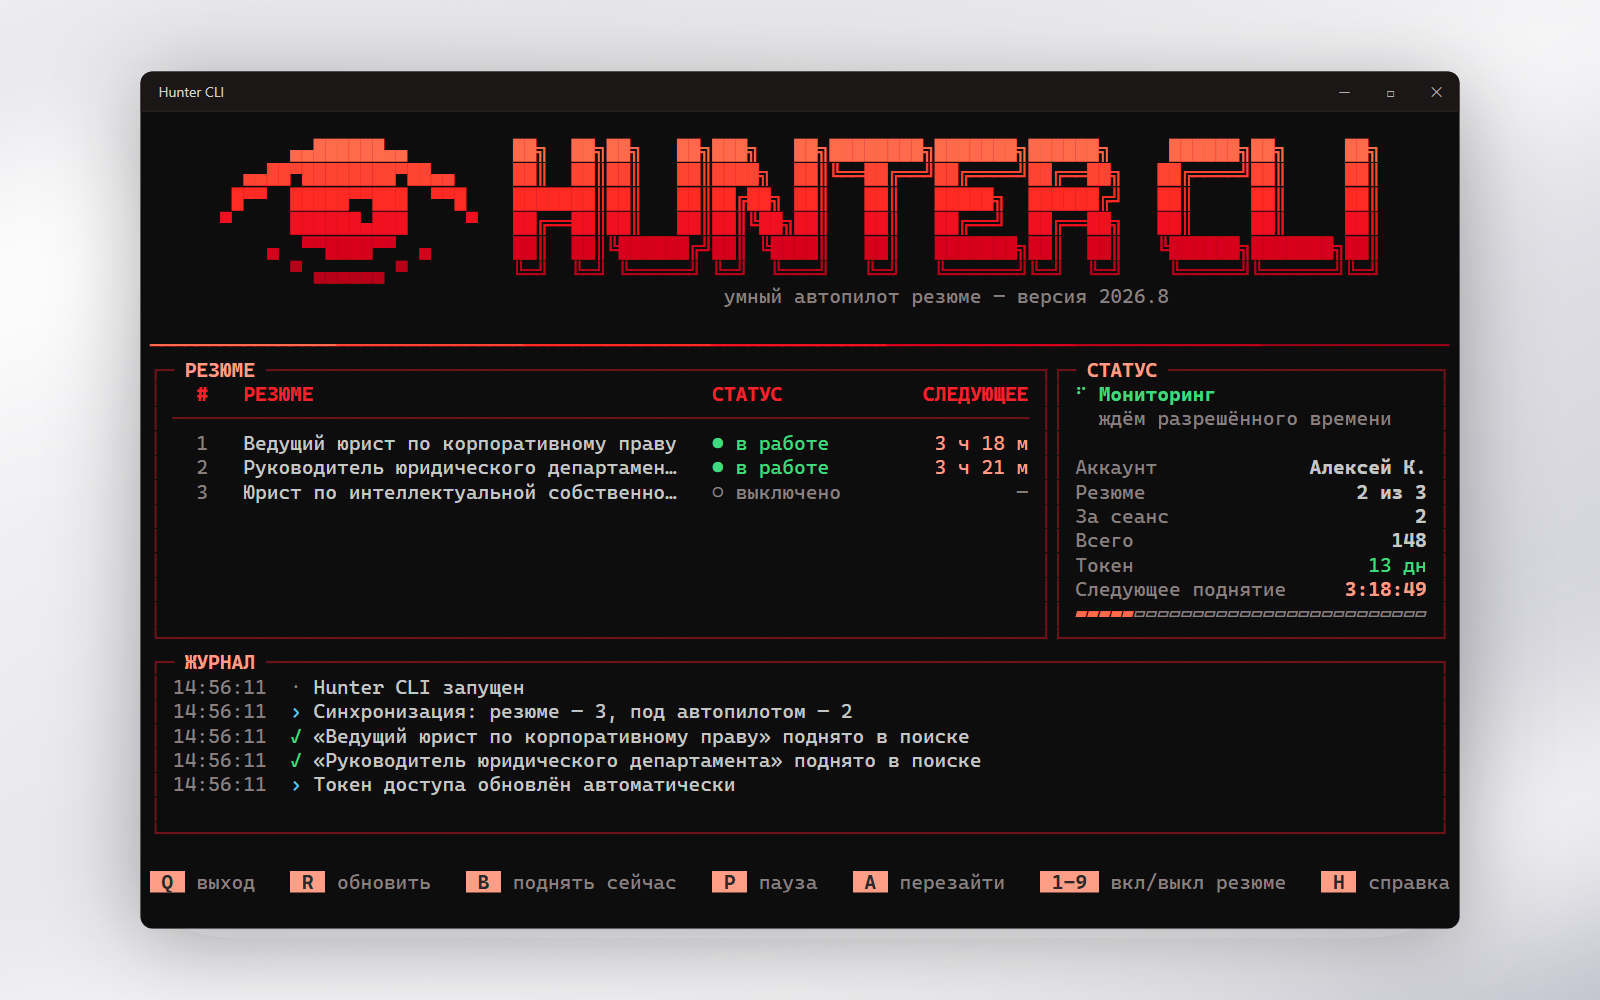
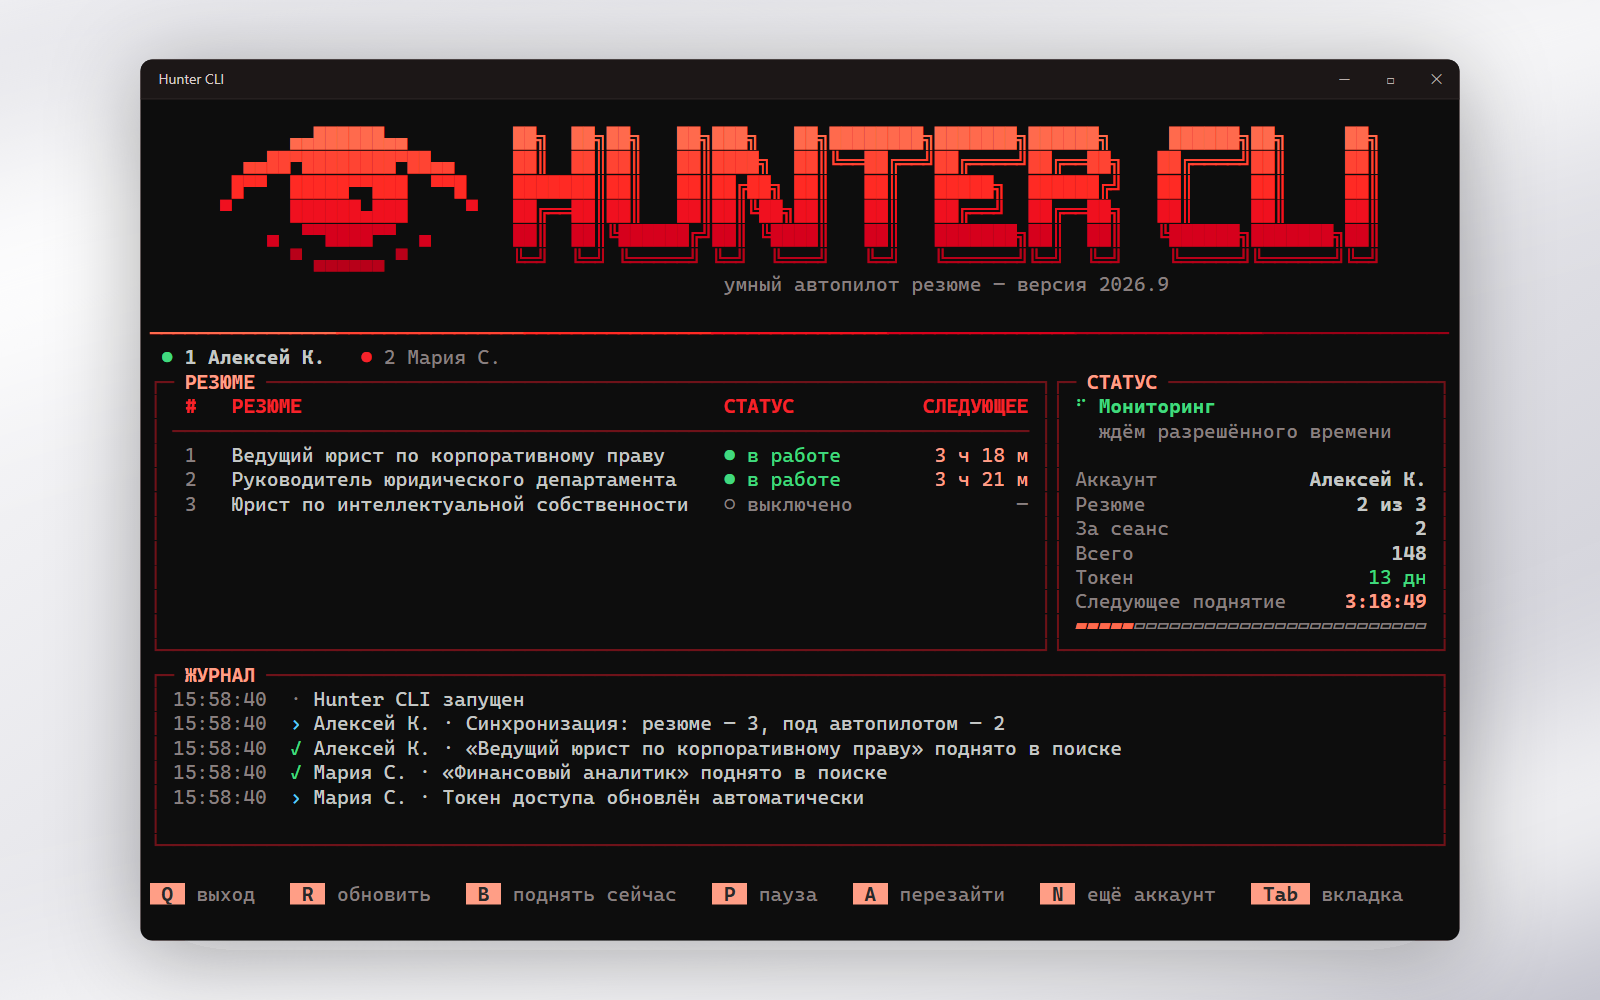
docs: скриншот с вкладками аккаунтов
На картинке в README снова то, что видит пользователь: полоса вкладок под
шапкой, две вкладки и подписанные именами строки журнала. Терминалу добавлена
строка (32 → 33): полоса съедала у панели статуса счётчик «Всего».

Заодно генератор научился перебирать браузеры. У Edge 151 ключ --screenshot
молча ничего не делает — код возврата нулевой, stderr пустой, файла нет;
Chrome ту же команду выполняет. Раньше на таком отказе сборка картинки просто
прекращалась.

diff --git a/tools/make_preview.py b/tools/make_preview.py
@@ -8,8 +8,8 @@
 его своим шрифтом. Ширины символов при этом разъезжаются, а блочный логотип
 покрывается швами. Растр выглядит одинаково у всех.
 
-Для перевода в PNG нужен Microsoft Edge (есть на любой Windows). Если его нет,
-рядом останется docs/preview.svg — им можно воспользоваться как есть.
+Для перевода в PNG нужен безголовый браузер — Edge или Chrome. Если ни одного
+нет, рядом останется docs/preview.svg — им можно воспользоваться как есть.
 
 Запуск: python tools\\make_preview.py
 """
@@ -46,7 +46,7 @@ from huntercli.engine import Phase, Snapshot
 from huntercli.hh import Resume
 from huntercli.logbus import LogBus
 from huntercli.ui import banner
-from huntercli.ui.dashboard import Dashboard
+from huntercli.ui.dashboard import Dashboard, TabInfo
 from huntercli.ui.theme import THEME
 
 #: Размер терминала в символах. Подобран так, чтобы поместился полный логотип
@@ -57,9 +57,10 @@ CANVAS_W, CANVAS_H = 1600, 1000
 
 #: Размер терминала подобран под этот холст. Ограничения снизу: от 103 колонок
 #: рядом с надписью помещается значок, от 32 строк панель статуса показывает
-#: обратный отсчёт, а названия резюме перестают обрезаться. Больше брать
-#: некуда: окно должно оставить поля на холсте.
-COLUMNS, ROWS = 112, 32
+#: обратный отсчёт, а названия резюме перестают обрезаться. Ещё одна строка
+#: уходит под полосу вкладок — на картинке аккаунта два. Больше брать некуда:
+#: окно должно оставить поля на холсте.
+COLUMNS, ROWS = 112, 33
 
 CORNER = 12
 
@@ -77,9 +78,15 @@ OUTPUT_SVG = os.path.join(ROOT, "docs", "preview.svg")
 FONT_STACK = '"Cascadia Mono", "Cascadia Code", Consolas, monospace'
 FONT_ASPECT = 0.5859
 
-EDGE_PATHS = (
+#: Чем переводить SVG в PNG. Edge стоит на любой Windows, поэтому он первый,
+#: Chrome — запасной. Перебор нужен не для красоты: у Edge 151 ключ
+#: --screenshot молча ничего не делает (проверено 2026-08-24 — код возврата
+#: нулевой, stderr пустой, файла нет), а Chrome ту же команду выполняет.
+BROWSER_PATHS = (
     r"C:\Program Files (x86)\Microsoft\Edge\Application\msedge.exe",
     r"C:\Program Files\Microsoft\Edge\Application\msedge.exe",
+    r"C:\Program Files\Google\Chrome\Application\chrome.exe",
+    r"C:\Program Files (x86)\Google\Chrome\Application\chrome.exe",
 )
 
 #: Шаблон без «хрома» Rich: рамку рисуем свою, чтобы окно выглядело как
@@ -111,13 +118,26 @@ BARE_SVG = """\
 
 
 def build_log() -> LogBus:
+    """Журнал как при двух аккаунтах: записи подписаны их владельцами.
+
+    Без подписи остаётся только строка запуска — она общая для программы,
+    ровно так это выглядит и в жизни.
+    """
     log = LogBus(to_file=False)
     log.info(f"{APP_NAME} запущен")
-    log.step("Синхронизация: резюме — 3, под автопилотом — 2")
-    log.ok("«Ведущий юрист по корпоративному праву» поднято в поиске")
-    log.ok("«Руководитель юридического департамента» поднято в поиске")
-    log.step("Токен доступа обновлён автоматически")
+    log.step("Алексей К. · Синхронизация: резюме — 3, под автопилотом — 2")
+    log.ok("Алексей К. · «Ведущий юрист по корпоративному праву» поднято в поиске")
+    log.ok("Мария С. · «Финансовый аналитик» поднято в поиске")
+    log.step("Мария С. · Токен доступа обновлён автоматически")
     return log
+
+
+def build_tabs() -> list[TabInfo]:
+    """Две вкладки: открытая ждёт своего времени, соседняя как раз поднимает."""
+    return [
+        TabInfo("Алексей К.", Phase.WAITING),
+        TabInfo("Мария С.", Phase.BUMPING),
+    ]
 
 
 def build_snapshot() -> Snapshot:
@@ -160,7 +180,7 @@ def render_terminal() -> tuple[str, float, float]:
     # Кадр заведомо вне моргания: на статичной картинке глаз должен быть открыт.
     board.tick = 20
     assert not banner.blinking(board.tick), "выбран кадр с закрытым глазом"
-    console.print(board.render(build_snapshot()))
+    console.print(board.render(build_snapshot(), build_tabs(), 0))
 
     svg = console.export_svg(
         title="",
@@ -301,10 +321,14 @@ height="{canvas_h:.0f}" viewBox="0 0 {canvas_w:.0f} {canvas_h:.0f}">
 
 
 def rasterize(width: int, height: int) -> bool:
-    """Перевести готовый SVG в PNG через безголовый Edge."""
-    browser = next((path for path in EDGE_PATHS if os.path.exists(path)), None)
-    if not browser:
-        print("Microsoft Edge не найден — оставляю только SVG", file=sys.stderr)
+    """Перевести готовый SVG в PNG безголовым браузером.
+
+    Браузеры перебираются по очереди: молчаливый отказ (нулевой код возврата
+    и никакого файла) — тоже отказ, просто его не на что списать.
+    """
+    browsers = [path for path in BROWSER_PATHS if os.path.exists(path)]
+    if not browsers:
+        print("Ни Edge, ни Chrome не найдены — оставляю только SVG", file=sys.stderr)
         return False
 
     with tempfile.TemporaryDirectory() as work:
@@ -316,17 +340,21 @@ def rasterize(width: int, height: int) -> bool:
             '<body style="margin:0"><img src="preview.svg" '
             f'style="display:block;width:{width}px;height:{height}px"></body>'
         )
-        result = subprocess.run(
-            [browser, "--headless", "--disable-gpu", f"--screenshot={shot}",
-             f"--window-size={width},{height}", "--default-background-color=FFFFFFFF",
-             "--hide-scrollbars", f"file:///{page.replace(os.sep, '/')}"],
-            capture_output=True, timeout=180,
-        )
-        if not os.path.exists(shot):
-            print(f"Edge не отдал картинку: {result.stderr[:200]!r}", file=sys.stderr)
-            return False
-        shutil.copy(shot, OUTPUT_PNG)
-    return True
+        for browser in browsers:
+            if os.path.exists(shot):
+                os.remove(shot)
+            result = subprocess.run(
+                [browser, "--headless", "--disable-gpu", f"--screenshot={shot}",
+                 f"--window-size={width},{height}", "--default-background-color=FFFFFFFF",
+                 "--hide-scrollbars", f"file:///{page.replace(os.sep, '/')}"],
+                capture_output=True, timeout=180,
+            )
+            if os.path.exists(shot):
+                shutil.copy(shot, OUTPUT_PNG)
+                return True
+            print(f"{os.path.basename(browser)} картинку не отдал "
+                  f"(код {result.returncode}) — пробую следующий", file=sys.stderr)
+    return False
 
 
 def main() -> int:
